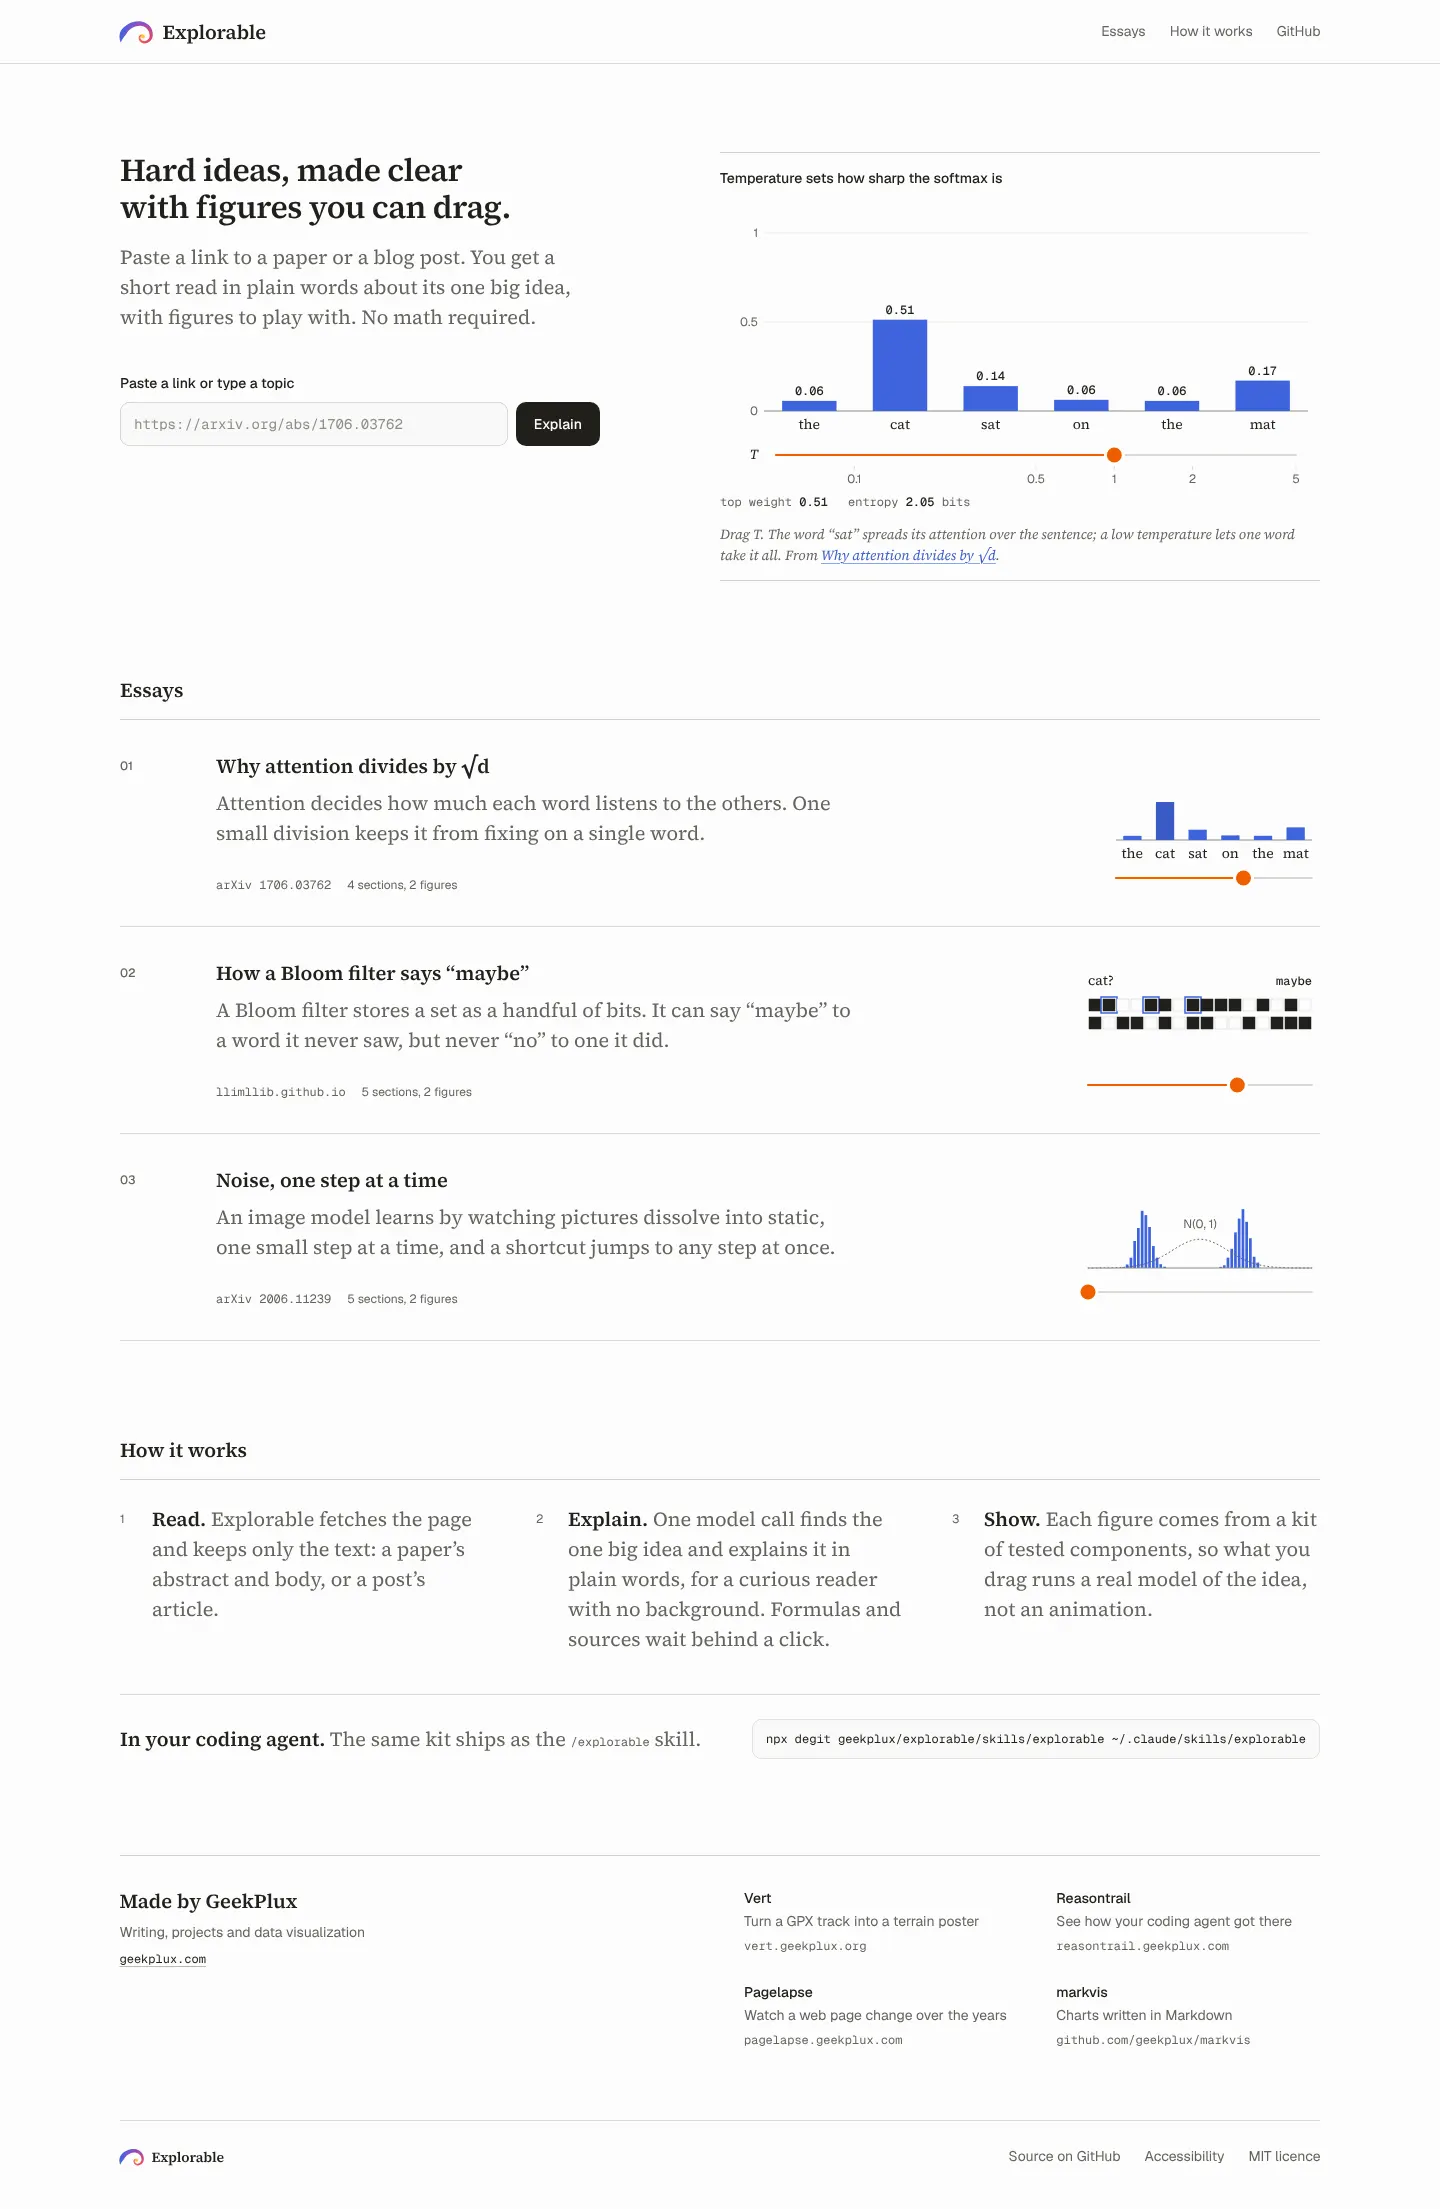
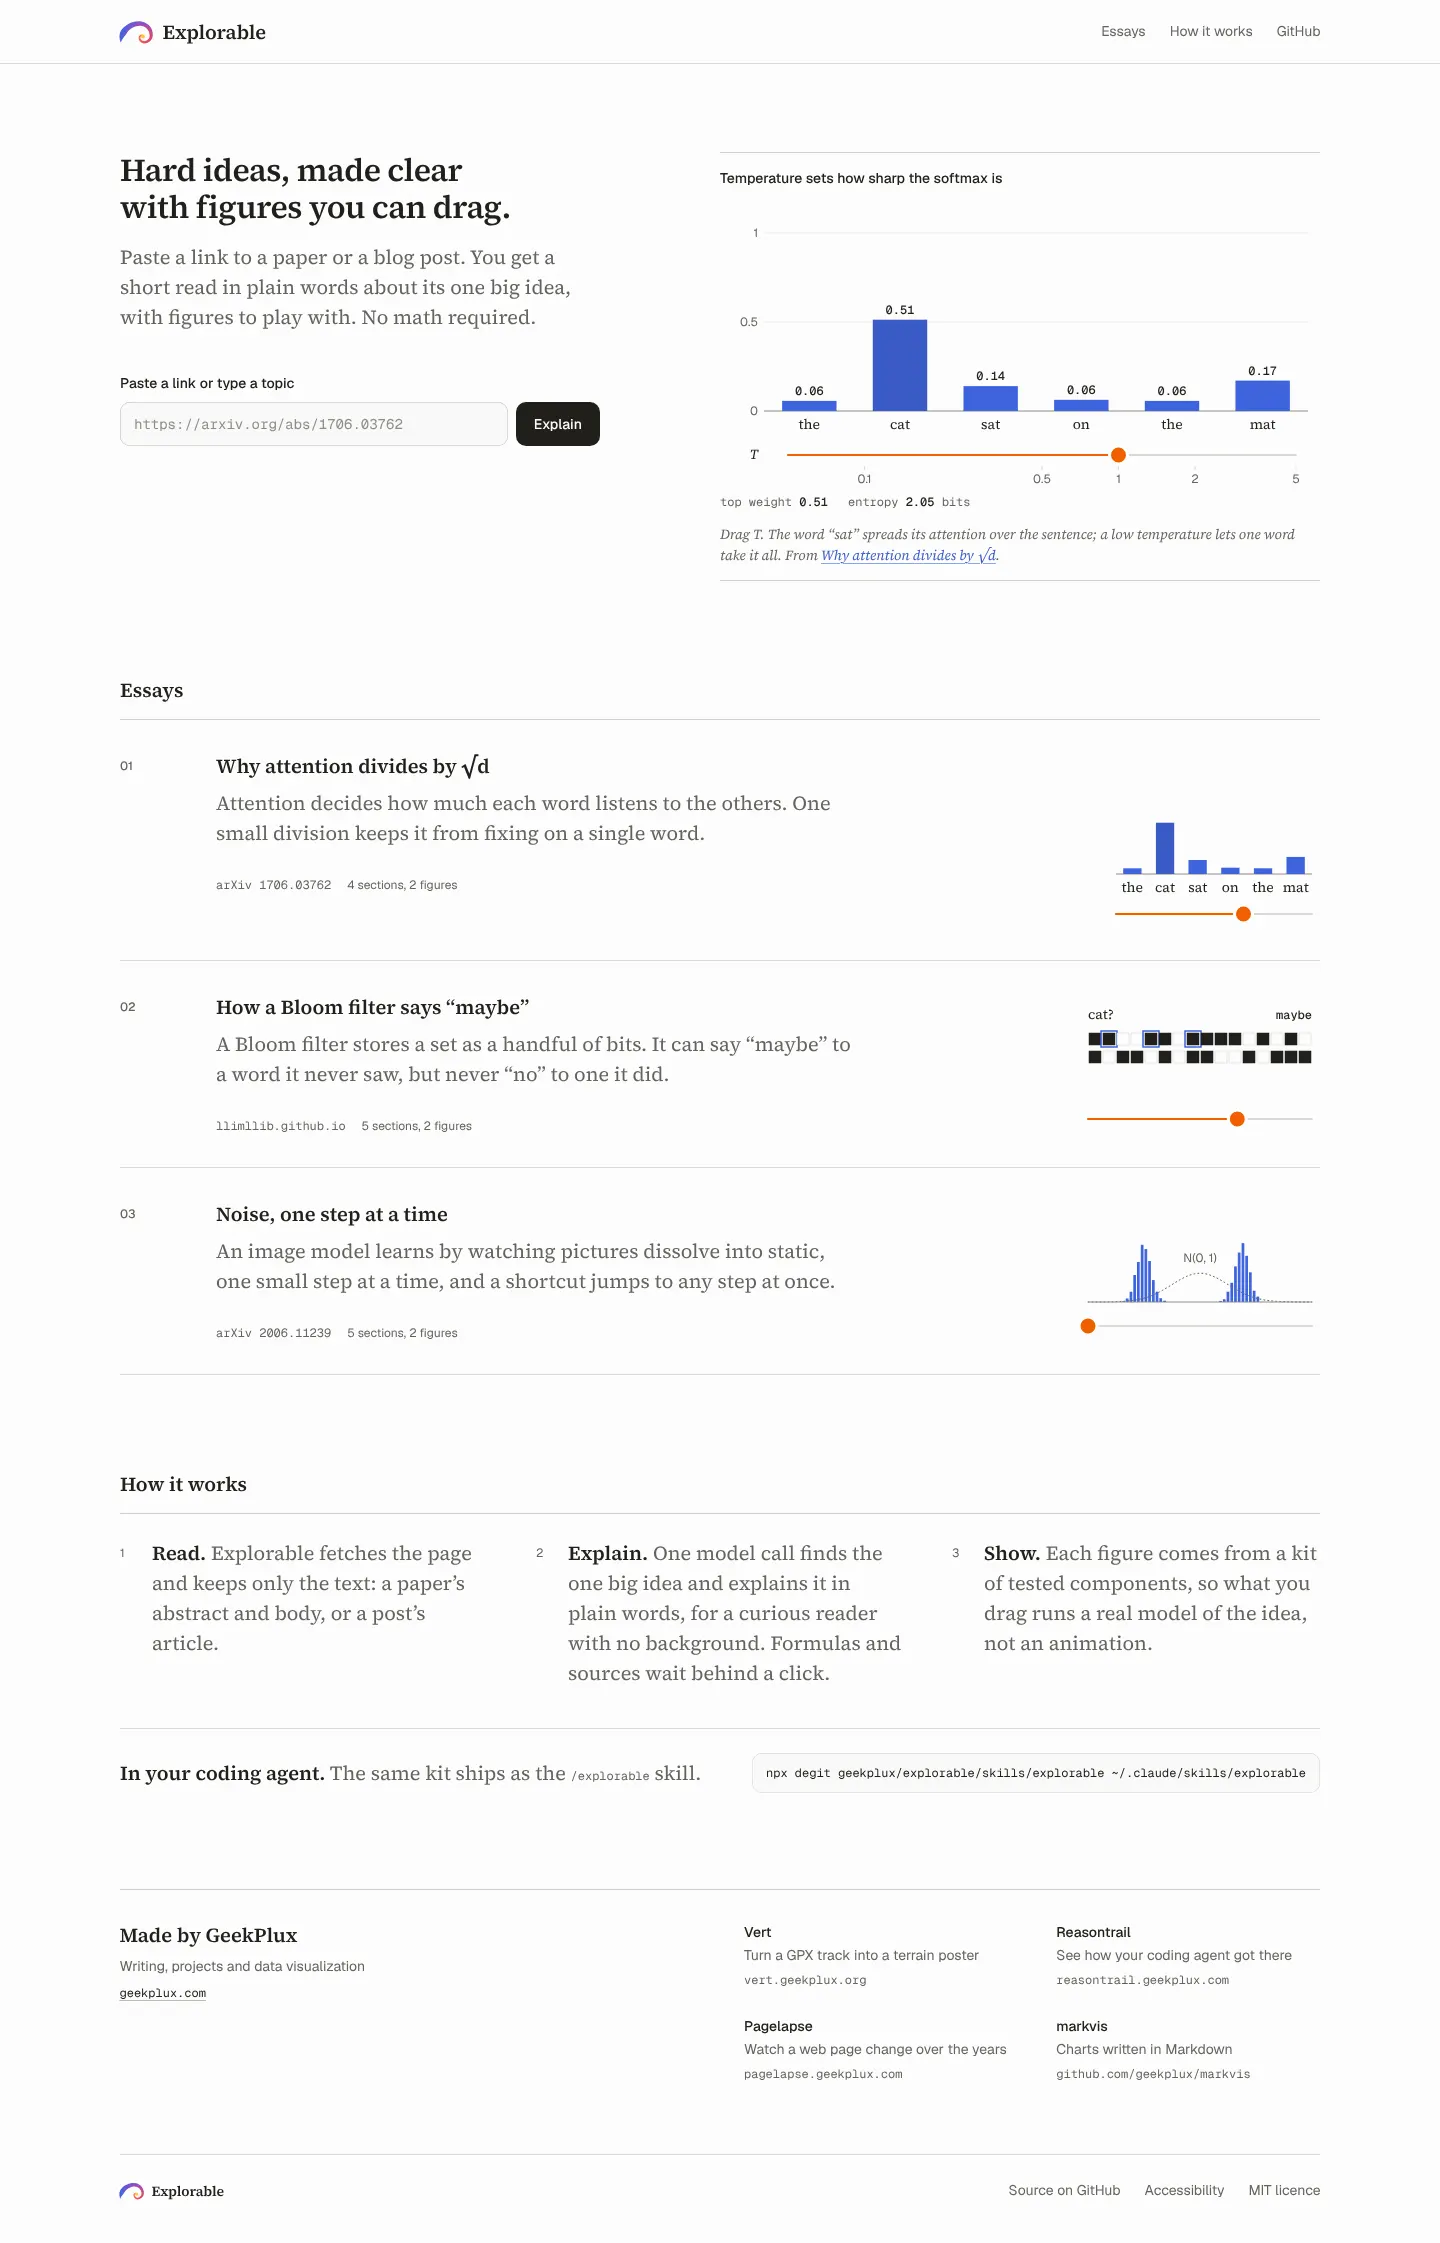
Home review round 1: board-size attention thumb, layout breakpoints, search copy
Attention thumbnail 240x170 (100px per unit of weight). Hero stacks below
1024px, the skill row below 1280px, Made by GeekPlux goes one column below
1100px and its URLs may wrap. Search matches keep each essay's own number and
say "1 match. Open it, or paste a link." Screenshots refreshed.

Claude-Session: https://claude.ai/code/session_01JHzUcdBZiPVczvFFoaNwgV

diff --git a/src/styles/app.css b/src/styles/app.css
@@ -23,11 +23,13 @@
 .made-by-sites a { display: grid; gap: 2px; }
 .made-by-name { font-weight: 500; }
 .made-by-dek { color: var(--text-2); }
-.made-by-url { margin-top: 4px; font: 400 var(--text-12) var(--font-mono); color: var(--text-2); }
+.made-by-url { margin-top: 4px; overflow-wrap: anywhere; font: 400 var(--text-12) var(--font-mono); color: var(--text-2); }
 .maker .made-by-url { justify-self: start; margin-top: 0; color: var(--text); text-decoration: underline var(--hairline) var(--field-line); text-underline-offset: 3px; }
 .maker:hover h2, .made-by-sites a:hover .made-by-name { text-decoration: underline var(--hairline); text-underline-offset: 3px; }
 .site-foot { display: flex; align-items: center; justify-content: space-between; gap: var(--space-4); margin-top: 72px; padding: 14px 0 30px; border-top: var(--hairline) solid var(--line); }
 .site-foot ul { display: flex; flex-wrap: wrap; align-items: center; gap: 0 24px; margin: 0; padding: 0; list-style: none; color: var(--text-2); }
+/* Below 1100px the maker's line sits above the sites, so the mono URLs keep their columns. */
+@media (max-width: 1099.98px) { .made-by { grid-template-columns: minmax(0, 1fr); gap: 28px; } }
 @media (max-width: 639.98px) {
   :root { --gutter: 16px; }
   .site-header { height: 56px; }
@@ -133,14 +135,19 @@
 /* One line where it fits; on a narrow screen the command wraps at its space inside the box (never a page scroll). */
 .skill-row .cmdbox { display: flex; align-items: center; min-height: 40px; margin: 0; padding: 10px 14px; line-height: 20px; color: var(--text); white-space: nowrap; border-radius: var(--radius); background: var(--field); box-shadow: inset 0 0 0 var(--hairline) var(--line-2); }
 
-@media (max-width: 959.98px) {
+@media (max-width: 1279.98px) {
+  .skill-row { display: block; }
+  .skill-row .cmdbox { margin-top: 12px; }
+}
+@media (max-width: 1023.98px) {
   .hero { grid-template-columns: minmax(0, 1fr); gap: 40px; }
   .hero-text { max-width: 36rem; }
+}
+@media (max-width: 959.98px) {
   .essay-row { grid-template-columns: 64px minmax(0, 1fr); }
   .essay-thumb { display: none; }
   .steps { grid-template-columns: minmax(0, 40rem); gap: 20px; }
-  .skill-row { display: block; }
-  .skill-row .cmdbox { margin-top: 12px; white-space: normal; overflow-wrap: anywhere; }
+  .skill-row .cmdbox { white-space: normal; overflow-wrap: anywhere; }
 }
 @media (max-width: 639.98px) {
   .hero { padding-block: 40px 56px; }

diff --git a/src/pages/home.test.tsx b/src/pages/home.test.tsx
@@ -2,7 +2,9 @@
 import { act } from 'react';
 import { createRoot } from 'react-dom/client';
 import { afterEach, describe, expect, it, vi } from 'vitest';
+import { SearchResults } from '../components/states/SearchResults.tsx';
 import { drawThumb, sweepAt } from '../lib/thumbPlay.ts';
+import { getSample } from '../samples/index.ts';
 import { GalleryPage } from './GalleryPage.tsx';
 
 (globalThis as { IS_REACT_ACT_ENVIRONMENT?: boolean }).IS_REACT_ACT_ENVIRONMENT = true;
@@ -50,6 +52,14 @@ describe('home', () => {
   });
 });
 
+describe('search matches', () => {
+  it('keep each essay its own index number', () => {
+    act(() => root.render(<SearchResults results={[getSample('diffusion')!]} />));
+    expect(texts('.essay-no')).toEqual(['03']);
+    expect(texts('.search-count')).toEqual(['1 match. Open it, or paste a link.']);
+  });
+});
+
 describe('thumbnail play', () => {
   it('sweeps to the far end and back to rest', () => {
     expect(sweepAt(0.65, 0)).toBe(0.65);
@@ -64,10 +74,10 @@ describe('thumbnail play', () => {
     const svg = host.querySelector<SVGSVGElement>('#essays .essay-thumb svg')!;
     drawThumb(svg, 0);
     expect(svg.querySelector('.th-handle')?.getAttribute('cx')).toBe('36.0');
-    expect(svg.querySelector('.th-fill')?.getAttribute('d')).toBe('M36 120H36.0');
+    expect(svg.querySelector('.th-fill')?.getAttribute('d')).toBe('M36 156H36.0');
     const bars = [...svg.querySelectorAll('rect.th-bar')];
-    // T = 0.05: "cat" takes all the weight (bar 74 px tall), the rest flatten to 0.5 px.
-    expect(bars.map((b) => b.getAttribute('height'))).toEqual(['0.5', '74.0', '0.5', '0.5', '0.5', '0.5']);
+    // T = 0.05: "cat" takes all the weight (bar 100 px tall), the rest flatten to 0.5 px.
+    expect(bars.map((b) => b.getAttribute('height'))).toEqual(['0.5', '100.0', '0.5', '0.5', '0.5', '0.5']);
     expect(bars[1]!.classList.contains('is-top')).toBe(true);
   });
 });

diff --git a/src/components/states/states.test.tsx b/src/components/states/states.test.tsx
@@ -50,11 +50,11 @@ describe('SearchResults', () => {
     const live = host.querySelector('output.search-live');
     expect(live?.textContent).toBe('');
     act(() => root.render(<SearchResults results={[attention as unknown as ExplorableDoc]} />));
-    expect(host.querySelector('.search-count')?.textContent).toBe('1 built-in match. Open one, or paste a link.');
+    expect(host.querySelector('.search-count')?.textContent).toBe('1 match. Open it, or paste a link.');
     expect(host.querySelector('output.search-live')).toBe(live);
     expect(live?.textContent).toBe('');
     act(() => vi.advanceTimersByTime(COUNT_DELAY_MS));
-    expect(live?.textContent).toBe('1 built-in match. Open one, or paste a link.');
+    expect(live?.textContent).toBe('1 match. Open it, or paste a link.');
     act(() => root.render(<SearchResults results={null} />));
     act(() => vi.advanceTimersByTime(0));
     expect(host.querySelector('output.search-live')).toBe(live);

diff --git a/src/components/EssayIndex.tsx b/src/components/EssayIndex.tsx
@@ -26,7 +26,7 @@ export function EssayIndex({ docs = samples, thumbs = false, compact = false }: 
           <li key={doc.id}>
             <a className="essay-row" href={`/s/${doc.id}`} onPointerEnter={play} onFocus={play}>
               <span className="essay-no" aria-hidden="true">
-                {String(i + 1).padStart(2, '0')}
+                {String((samples.indexOf(doc) + 1 || i + 1)).padStart(2, '0')}
               </span>
               <span className="essay-body">
                 <span className="essay-title">

diff --git a/src/components/states/SearchResults.tsx b/src/components/states/SearchResults.tsx
@@ -6,7 +6,7 @@ import { EssayIndex } from '../EssayIndex.tsx';
 export const COUNT_DELAY_MS = 500;
 
 export const countText = (n: number): string =>
-  n ? `${n} built-in ${n === 1 ? 'match' : 'matches'}. Open one, or paste a link.` : 'No built-in match: paste a link instead.';
+  n === 1 ? '1 match. Open it, or paste a link.' : n ? `${n} matches. Open one, or paste a link.` : 'No match: paste a link instead.';
 
 /**
  * Local matches for typed words. The visible count updates at once; screen
